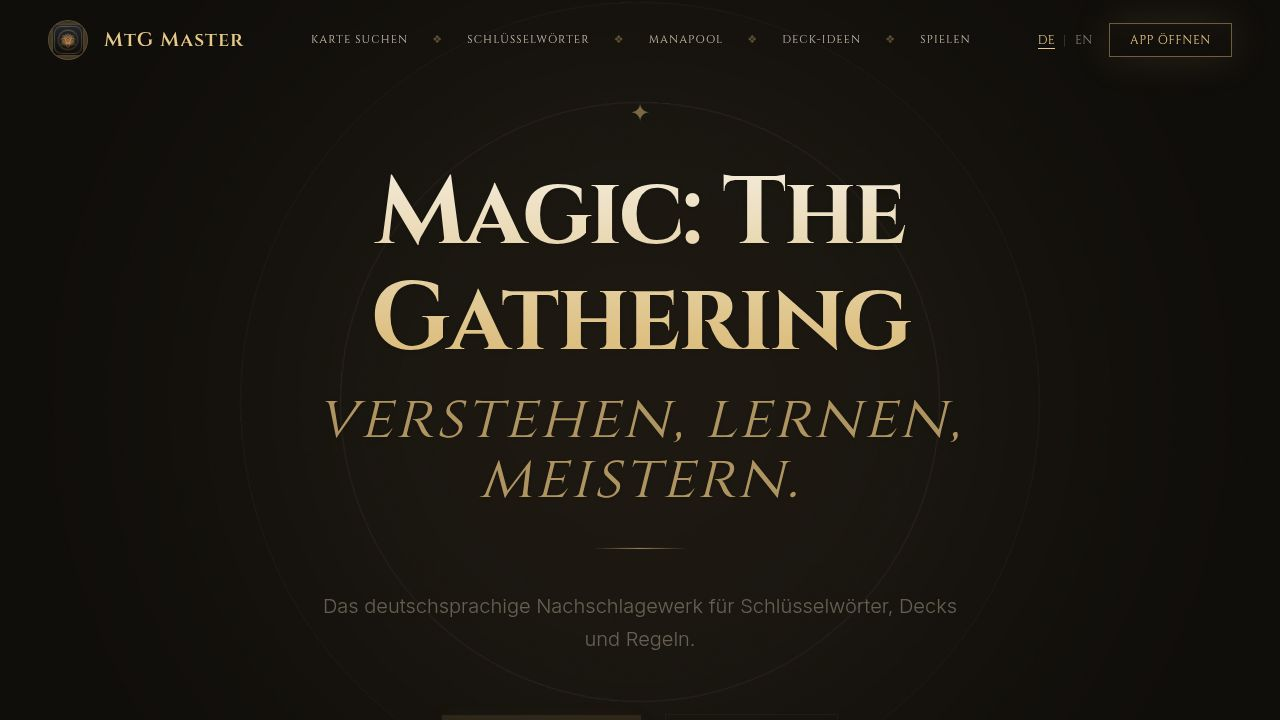
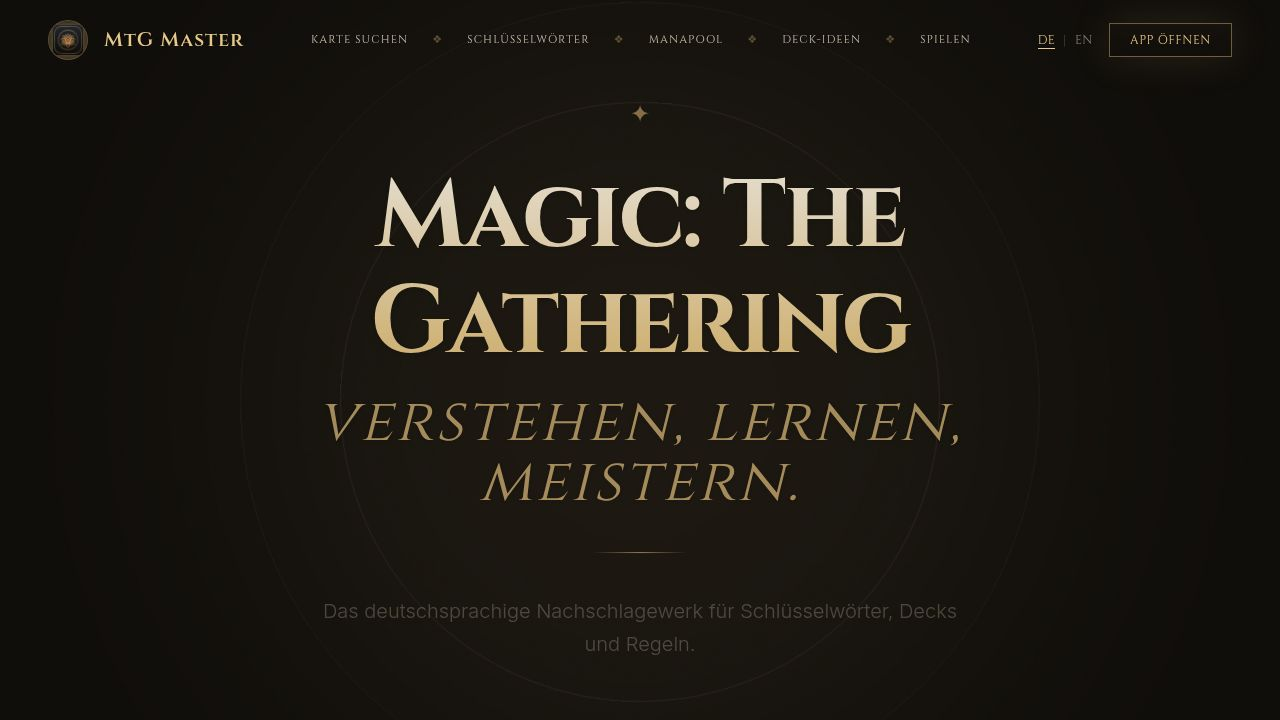
Add legal pages and store assets for the application
Create 'Datenschutz' and 'Impressum' pages, add their routes to App.tsx, and generate a feature graphic for the Play Store.

Replit-Commit-Author: Agent
Replit-Commit-Session-Id: 6f3b5fa4-3508-42a8-85e0-dda3f0e37abf
Replit-Commit-Checkpoint-Type: full_checkpoint
Replit-Commit-Event-Id: 70487578-ce05-40a3-9ce4-617d33926acc
Replit-Commit-Screenshot-Url: https://storage.googleapis.com/screenshot-production-us-central1/57d2c256-8628-427d-8d8a-603da6b0641d/6f3b5fa4-3508-42a8-85e0-dda3f0e37abf/SwnawAO
Replit-Helium-Checkpoint-Created: true

diff --git a/artifacts/mtgmaster-web/src/pages/Datenschutz.tsx b/artifacts/mtgmaster-web/src/pages/Datenschutz.tsx
@@ -1,0 +1,211 @@
+import { LegalLayout } from "./LegalLayout";
+
+export function Datenschutz() {
+  return (
+    <LegalLayout title="Datenschutzerklärung">
+      <p>
+        Stand: Mai 2026
+      </p>
+
+      <h2>1. Verantwortlicher</h2>
+      <p>
+        Verantwortlich im Sinne der Datenschutz-Grundverordnung (DSGVO):
+      </p>
+      <p>
+        Sven Bauer<br />
+        [STRASSE HAUSNUMMER]<br />
+        [PLZ ORT]<br />
+        Deutschland<br />
+        E-Mail: <a href="mailto:[email redacted]">[email redacted]</a>
+      </p>
+
+      <h2>2. Allgemeines zur Datenverarbeitung</h2>
+      <p>
+        MtG Master ist eine Web- und Mobile-App rund um das Sammelkartenspiel Magic: The
+        Gathering. Wir verarbeiten personenbezogene Daten nur, soweit dies zur Bereitstellung
+        einer funktionsfähigen Anwendung sowie unserer Inhalte und Leistungen erforderlich ist.
+        Rechtsgrundlagen sind Art. 6 Abs. 1 lit. a (Einwilligung), lit. b (Vertrag/vorvertragliche
+        Maßnahmen), lit. c (rechtliche Verpflichtung) sowie lit. f (berechtigtes Interesse) DSGVO.
+      </p>
+
+      <h2>3. Zugriffsdaten / Server-Logfiles</h2>
+      <p>
+        Beim Aufruf der Webseite werden technisch notwendige Daten temporär in den Server-Logs
+        gespeichert: IP-Adresse, Datum und Uhrzeit der Anfrage, aufgerufene URL, Referrer,
+        verwendeter Browser und Betriebssystem. Die Verarbeitung dient dem stabilen Betrieb der
+        Anwendung sowie der Abwehr von Missbrauch (Art. 6 Abs. 1 lit. f DSGVO). Die Logs werden
+        spätestens nach 30 Tagen gelöscht.
+      </p>
+
+      <h2>4. Hosting (Replit)</h2>
+      <p>
+        Diese Anwendung wird auf der Plattform Replit (Replit, Inc., 548 Market St #34337,
+        San Francisco, CA 94104, USA) gehostet. Beim Aufruf werden Verbindungsdaten an Replit
+        übertragen. Replit ist nach EU-US Data Privacy Framework zertifiziert; ergänzend
+        bestehen Standardvertragsklauseln. Weitere Informationen:{" "}
+        <a href="https://replit.com/site/privacy" target="_blank" rel="noreferrer">
+          replit.com/site/privacy
+        </a>
+        .
+      </p>
+
+      <h2>5. Konto und Cloud-Synchronisation</h2>
+      <p>
+        Du kannst optional ein Konto erstellen, um deine Decks, Favoriten und Suchverlauf zwischen
+        Geräten zu synchronisieren.
+      </p>
+      <h3>5.1 Authentifizierung über Clerk</h3>
+      <p>
+        Die Anmeldung erfolgt per E-Mail-Code über den Authentifizierungs-Anbieter{" "}
+        <strong>Clerk, Inc.</strong> (660 King St #345, San Francisco, CA 94107, USA). Verarbeitet
+        werden: deine E-Mail-Adresse, eine pseudonyme Nutzer-ID, Sitzungs-Tokens, Anmeldezeitpunkt
+        und IP-Adresse zur Sicherheit der Anmeldung. Rechtsgrundlage: Art. 6 Abs. 1 lit. b DSGVO
+        (Erfüllung des Nutzungsvertrags). Datenschutzerklärung von Clerk:{" "}
+        <a href="https://clerk.com/legal/privacy" target="_blank" rel="noreferrer">
+          clerk.com/legal/privacy
+        </a>
+        . Datenübertragung in die USA auf Basis des EU-US Data Privacy Frameworks und/oder
+        Standardvertragsklauseln.
+      </p>
+      <h3>5.2 Eigene Datenbank (PostgreSQL)</h3>
+      <p>
+        Synchronisierte Inhalte (Decklisten, Lieblingskarten, Suchverlauf, optional Freundesliste)
+        werden in einer von Replit betriebenen PostgreSQL-Datenbank gespeichert und ausschließlich
+        deinem Konto zugeordnet. Du kannst die gesamten Daten jederzeit per E-Mail an uns löschen
+        lassen oder das Konto direkt in der App auflösen.
+      </p>
+
+      <h2>6. Lokale Speicherung im Gerät</h2>
+      <p>
+        Die App speichert ohne Anmeldung Einstellungen (z.B. Sprachwahl), zuletzt gesuchte Karten,
+        Favoriten und Decks lokal in deinem Browser bzw. auf deinem Gerät (LocalStorage,
+        AsyncStorage). Diese Daten verlassen dein Gerät nicht, solange du keinen Cloud-Sync
+        aktivierst. Du kannst sie über die Einstellungen deines Browsers oder Betriebssystems
+        löschen.
+      </p>
+
+      <h2>7. Externe APIs für Kartendaten</h2>
+      <h3>7.1 Scryfall</h3>
+      <p>
+        Karten-Bilder, Suchergebnisse und Kartendetails werden direkt aus deinem Browser bzw. der
+        App von der öffentlichen API von <strong>Scryfall</strong> (Scryfall, LLC) geladen.
+        Übertragen werden dabei deine IP-Adresse sowie der Such-Begriff bzw. die Karten-ID.
+        Datenschutzerklärung:{" "}
+        <a href="https://scryfall.com/privacy" target="_blank" rel="noreferrer">
+          scryfall.com/privacy
+        </a>
+        . Rechtsgrundlage: Art. 6 Abs. 1 lit. b DSGVO (Bereitstellung der Funktion
+        „Kartensuche").
+      </p>
+      <h3>7.2 Commander Spellbook</h3>
+      <p>
+        Für die Anzeige von Karten-Combos werden Anfragen an die öffentliche API von{" "}
+        <strong>Commander Spellbook</strong> gerichtet. Übertragen werden IP-Adresse und
+        Karten-Name. Datenschutzerklärung:{" "}
+        <a href="https://commanderspellbook.com/privacy/" target="_blank" rel="noreferrer">
+          commanderspellbook.com/privacy
+        </a>
+        .
+      </p>
+
+      <h2>8. Werbung und Affiliate-Links</h2>
+      <h3>8.1 Amazon-Partnerprogramm</h3>
+      <p>
+        Diese App enthält Links zu Amazon (Booster-Pack-Suche, Karten-Shops). Wir nehmen am
+        Amazon-Partnerprogramm teil und erhalten eine Provision für qualifizierte Käufe. Beim
+        Klick auf einen Amazon-Link werden Daten direkt von Amazon erhoben (siehe{" "}
+        <a href="https://www.amazon.de/gp/help/customer/display.html?nodeId=201909010" target="_blank" rel="noreferrer">
+          Amazon-Datenschutzhinweise
+        </a>
+        ).
+      </p>
+      <h3>8.2 Google AdSense / Google AdMob</h3>
+      <p>
+        Sofern auf der Website Google AdSense bzw. in der mobilen App Google AdMob aktiviert sind,
+        werden zur Auslieferung personalisierter Werbung Daten von Google verarbeitet
+        (Werbe-ID, IP-Adresse, ungefährer Standort, Geräte- und Browserdaten). Die Verarbeitung
+        erfolgt nur nach deiner ausdrücklichen Einwilligung über das Cookie-/Consent-Banner
+        (Art. 6 Abs. 1 lit. a DSGVO, § 25 Abs. 1 TDDDG). Du kannst deine Einwilligung jederzeit
+        in den Einstellungen widerrufen. Bei Verweigerung werden ausschließlich
+        nicht-personalisierte Anzeigen ausgespielt. Mehr:{" "}
+        <a href="https://policies.google.com/privacy" target="_blank" rel="noreferrer">
+          policies.google.com/privacy
+        </a>
+        .
+      </p>
+
+      <h2>9. Webanalyse: Google Analytics 4</h2>
+      <p>
+        Auf der Website setzen wir Google Analytics 4 (Google Ireland Ltd., Gordon House, Barrow
+        Street, Dublin 4, Irland) ein. Erfasst werden u. a. anonymisierte IP-Adresse, besuchte
+        Seiten, Verweildauer, Browser- und Geräte-Informationen. Eine Verarbeitung findet nur nach
+        deiner Einwilligung über das Consent-Banner statt (Art. 6 Abs. 1 lit. a DSGVO, § 25 Abs. 1
+        TDDDG). Du kannst deine Einwilligung jederzeit widerrufen. Datenübertragung in die USA
+        erfolgt auf Basis des EU-US Data Privacy Frameworks.
+      </p>
+
+      <h2>10. Cookies und vergleichbare Technologien</h2>
+      <p>
+        Wir verwenden technisch notwendige Cookies (z. B. Session-Cookies für die Anmeldung) sowie
+        nur nach deiner Einwilligung Cookies/SDKs für Werbung und Analyse. Du verwaltest deine
+        Einwilligung über das Banner beim ersten Besuch und über die App-Einstellungen.
+      </p>
+
+      <h2>11. Empfänger und Drittlandtransfer</h2>
+      <p>
+        Im Rahmen der oben genannten Dienste werden Daten ggf. an Auftragsverarbeiter und Anbieter
+        in Drittländer (insbesondere USA) übertragen. Die Übermittlung erfolgt entweder auf Basis
+        eines Angemessenheitsbeschlusses (EU-US Data Privacy Framework) oder über
+        Standardvertragsklauseln gemäß Art. 46 DSGVO.
+      </p>
+
+      <h2>12. Speicherdauer</h2>
+      <p>
+        Wir speichern personenbezogene Daten nur so lange, wie dies für die jeweiligen Zwecke
+        erforderlich ist oder gesetzliche Aufbewahrungspflichten dies vorschreiben. Konto-Daten
+        werden bei Löschung des Kontos unverzüglich entfernt; Server-Logs spätestens nach 30
+        Tagen.
+      </p>
+
+      <h2>13. Deine Rechte</h2>
+      <p>Du hast jederzeit das Recht auf:</p>
+      <ul>
+        <li>Auskunft über die zu deiner Person gespeicherten Daten (Art. 15 DSGVO)</li>
+        <li>Berichtigung unrichtiger Daten (Art. 16 DSGVO)</li>
+        <li>Löschung („Recht auf Vergessenwerden", Art. 17 DSGVO)</li>
+        <li>Einschränkung der Verarbeitung (Art. 18 DSGVO)</li>
+        <li>Datenübertragbarkeit (Art. 20 DSGVO)</li>
+        <li>Widerspruch gegen die Verarbeitung (Art. 21 DSGVO)</li>
+        <li>Widerruf einer erteilten Einwilligung mit Wirkung für die Zukunft (Art. 7 Abs. 3 DSGVO)</li>
+      </ul>
+      <p>
+        Zur Ausübung dieser Rechte genügt eine formlose E-Mail an{" "}
+        <a href="mailto:[email redacted]">[email redacted]</a>.
+      </p>
+
+      <h2>14. Beschwerderecht bei der Aufsichtsbehörde</h2>
+      <p>
+        Unbeschadet anderer Rechtsbehelfe steht dir ein Beschwerderecht bei einer
+        Datenschutz-Aufsichtsbehörde zu, insbesondere am Ort deines gewöhnlichen Aufenthalts oder
+        unseres Sitzes. Eine Liste deutscher Aufsichtsbehörden findest du unter{" "}
+        <a href="https://www.bfdi.bund.de/" target="_blank" rel="noreferrer">
+          www.bfdi.bund.de
+        </a>
+        .
+      </p>
+
+      <h2>15. Sicherheit</h2>
+      <p>
+        Wir setzen technische und organisatorische Sicherheitsmaßnahmen ein (u. a. TLS-Verschlüsselung,
+        Zugriffsbeschränkungen, gehashte Authentifizierungs-Tokens), um deine Daten gegen Verlust,
+        Manipulation und unberechtigten Zugriff zu schützen.
+      </p>
+
+      <h2>16. Änderungen dieser Datenschutzerklärung</h2>
+      <p>
+        Wir passen diese Datenschutzerklärung bei Änderungen der Anwendung oder rechtlichen
+        Vorgaben an. Die jeweils aktuelle Fassung ist immer unter dieser URL abrufbar.
+      </p>
+    </LegalLayout>
+  );
+}

diff --git a/artifacts/mtgmaster-web/src/pages/Impressum.tsx b/artifacts/mtgmaster-web/src/pages/Impressum.tsx
@@ -1,0 +1,81 @@
+import { LegalLayout } from "./LegalLayout";
+
+export function Impressum() {
+  return (
+    <LegalLayout title="Impressum">
+      <h2>Angaben gemäß § 5 DDG</h2>
+      <p>
+        Sven Bauer<br />
+        [STRASSE HAUSNUMMER]<br />
+        [PLZ ORT]<br />
+        Deutschland
+      </p>
+
+      <h2>Kontakt</h2>
+      <p>
+        E-Mail: <a href="mailto:[email redacted]">[email redacted]</a>
+      </p>
+
+      <h2>Verantwortlich für den Inhalt nach § 18 Abs. 2 MStV</h2>
+      <p>
+        Sven Bauer<br />
+        Anschrift wie oben
+      </p>
+
+      <h2>EU-Streitschlichtung</h2>
+      <p>
+        Die Europäische Kommission stellt eine Plattform zur Online-Streitbeilegung (OS) bereit:{" "}
+        <a href="https://ec.europa.eu/consumers/odr/" target="_blank" rel="noreferrer">
+          https://ec.europa.eu/consumers/odr/
+        </a>
+        . Unsere E-Mail-Adresse findest du oben im Impressum.
+      </p>
+
+      <h2>Verbraucherstreitbeilegung / Universalschlichtungsstelle</h2>
+      <p>
+        Wir sind nicht bereit oder verpflichtet, an Streitbeilegungsverfahren vor einer
+        Verbraucherschlichtungsstelle teilzunehmen.
+      </p>
+
+      <h2>Haftung für Inhalte</h2>
+      <p>
+        Als Diensteanbieter sind wir gemäß § 7 Abs. 1 DDG für eigene Inhalte auf diesen Seiten nach
+        den allgemeinen Gesetzen verantwortlich. Nach §§ 8 bis 10 DDG sind wir als Diensteanbieter
+        jedoch nicht verpflichtet, übermittelte oder gespeicherte fremde Informationen zu
+        überwachen oder nach Umständen zu forschen, die auf eine rechtswidrige Tätigkeit hinweisen.
+      </p>
+      <p>
+        Verpflichtungen zur Entfernung oder Sperrung der Nutzung von Informationen nach den
+        allgemeinen Gesetzen bleiben hiervon unberührt. Eine diesbezügliche Haftung ist jedoch erst
+        ab dem Zeitpunkt der Kenntnis einer konkreten Rechtsverletzung möglich. Bei Bekanntwerden
+        entsprechender Rechtsverletzungen werden wir diese Inhalte umgehend entfernen.
+      </p>
+
+      <h2>Haftung für Links</h2>
+      <p>
+        Unser Angebot enthält Links zu externen Websites Dritter, auf deren Inhalte wir keinen
+        Einfluss haben. Deshalb können wir für diese fremden Inhalte auch keine Gewähr übernehmen.
+        Für die Inhalte der verlinkten Seiten ist stets der jeweilige Anbieter oder Betreiber der
+        Seiten verantwortlich. Die verlinkten Seiten wurden zum Zeitpunkt der Verlinkung auf
+        mögliche Rechtsverstöße überprüft. Rechtswidrige Inhalte waren zum Zeitpunkt der
+        Verlinkung nicht erkennbar.
+      </p>
+
+      <h2>Urheberrecht</h2>
+      <p>
+        Die durch die Seitenbetreiber erstellten Inhalte und Werke auf diesen Seiten unterliegen
+        dem deutschen Urheberrecht. Die Vervielfältigung, Bearbeitung, Verbreitung und jede Art
+        der Verwertung außerhalb der Grenzen des Urheberrechtes bedürfen der schriftlichen
+        Zustimmung des jeweiligen Autors bzw. Erstellers.
+      </p>
+
+      <h2>Markenrechtlicher Hinweis</h2>
+      <p>
+        <strong>Magic: The Gathering</strong>, alle zugehörigen Karten, Symbole und Begriffe sind
+        eingetragene Marken von Wizards of the Coast LLC. MtG Master ist ein unabhängiges
+        Fan-Projekt und steht in keiner offiziellen Verbindung zu Wizards of the Coast oder
+        Hasbro. Kartendaten und Bilder werden über die Scryfall-API bezogen.
+      </p>
+    </LegalLayout>
+  );
+}

diff --git a/artifacts/mtgmaster-web/src/pages/LegalLayout.tsx b/artifacts/mtgmaster-web/src/pages/LegalLayout.tsx
@@ -1,0 +1,57 @@
+import { Link } from "wouter";
+import type { ReactNode } from "react";
+
+const APP_URL = "https://app.mtgmaster.de";
+const LOGO = `${import.meta.env.BASE_URL}images/mtg-logo.png`;
+
+export function LegalLayout({ title, children }: { title: string; children: ReactNode }) {
+  return (
+    <div className="min-h-screen bg-[#0f0d0a] text-[#f3e9d2] font-sans">
+      <header className="border-b border-[#c8a96e]/20 bg-[#0a0806]/95 backdrop-blur">
+        <div className="max-w-3xl mx-auto px-6 py-4 flex items-center justify-between">
+          <Link href="/" className="flex items-center gap-3 group">
+            <img src={LOGO} alt="MtG Master Logo" className="w-8 h-8 opacity-70 group-hover:opacity-100 transition-opacity" />
+            <span className="font-cinzel text-[#c8a96e] tracking-widest text-sm uppercase">
+              MtG Master
+            </span>
+          </Link>
+          <a
+            href={APP_URL}
+            className="font-cinzel text-xs tracking-widest text-[#c8a96e]/60 hover:text-[#e8c989] uppercase"
+          >
+            App öffnen
+          </a>
+        </div>
+      </header>
+
+      <main className="max-w-3xl mx-auto px-6 py-12">
+        <h1 className="font-cinzel text-3xl md:text-4xl text-[#e8c989] tracking-wide mb-2">
+          {title}
+        </h1>
+        <div className="h-px bg-gradient-to-r from-[#c8a96e]/40 to-transparent mb-10" />
+        <div className="prose prose-invert max-w-none text-[#f3e9d2]/85 leading-relaxed text-[15px]
+          [&_h2]:font-cinzel [&_h2]:text-[#e8c989] [&_h2]:text-xl [&_h2]:tracking-wide [&_h2]:mt-10 [&_h2]:mb-3
+          [&_h3]:font-cinzel [&_h3]:text-[#c8a96e] [&_h3]:text-base [&_h3]:tracking-wide [&_h3]:mt-6 [&_h3]:mb-2
+          [&_p]:my-3
+          [&_ul]:my-3 [&_ul]:list-disc [&_ul]:pl-6
+          [&_li]:my-1
+          [&_a]:text-[#e8c989] [&_a]:underline [&_a]:underline-offset-2 hover:[&_a]:text-[#f3e9d2]
+          [&_strong]:text-[#e8c989]
+        ">
+          {children}
+        </div>
+      </main>
+
+      <footer className="border-t border-[#c8a96e]/10 bg-[#0a0806] py-8">
+        <div className="max-w-3xl mx-auto px-6 flex flex-wrap gap-4 justify-between text-xs font-cinzel text-[#c8a96e]/40 tracking-widest uppercase">
+          <span>© 2026 MtG Master</span>
+          <div className="flex gap-4">
+            <Link href="/impressum" className="hover:text-[#e8c989]">Impressum</Link>
+            <span className="text-[#c8a96e]/20">|</span>
+            <Link href="/datenschutz" className="hover:text-[#e8c989]">Datenschutz</Link>
+          </div>
+        </div>
+      </footer>
+    </div>
+  );
+}

diff --git a/artifacts/mtgmaster-web/src/App.tsx b/artifacts/mtgmaster-web/src/App.tsx
@@ -1,11 +1,15 @@
 import { Switch, Route, Router as WouterRouter } from "wouter";
 import { Landing } from "@/pages/Landing";
+import { Datenschutz } from "@/pages/Datenschutz";
+import { Impressum } from "@/pages/Impressum";
 import NotFound from "@/pages/not-found";
 
 function Router() {
   return (
     <Switch>
       <Route path="/" component={Landing} />
+      <Route path="/datenschutz" component={Datenschutz} />
+      <Route path="/impressum" component={Impressum} />
       <Route component={NotFound} />
     </Switch>
   );